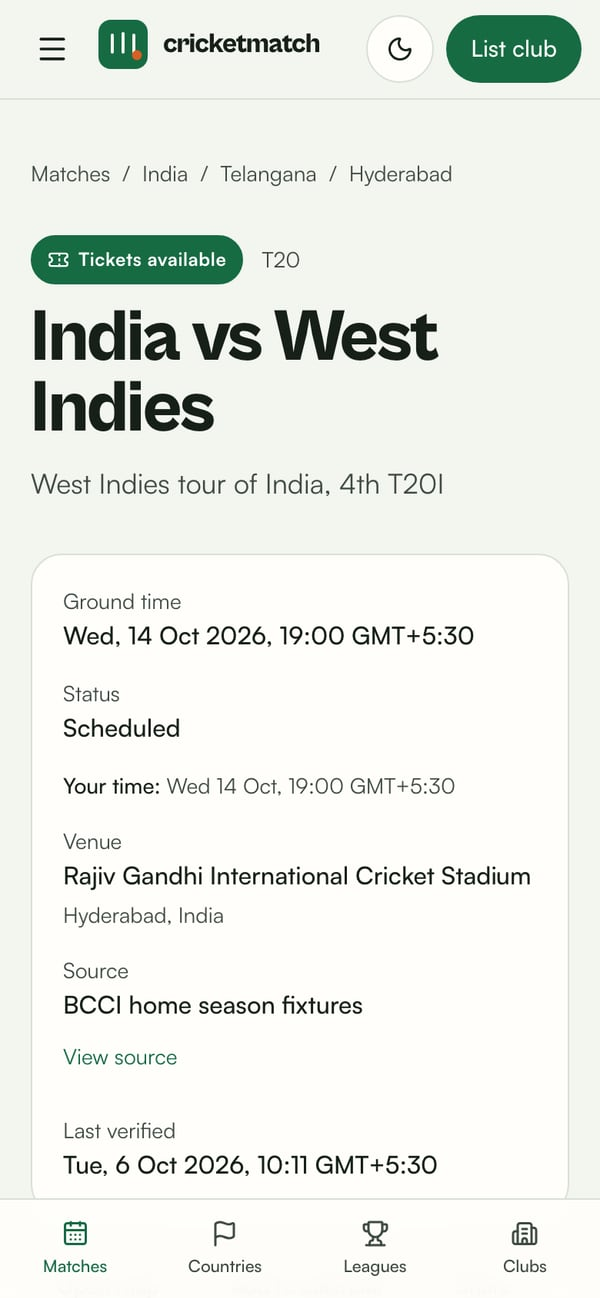
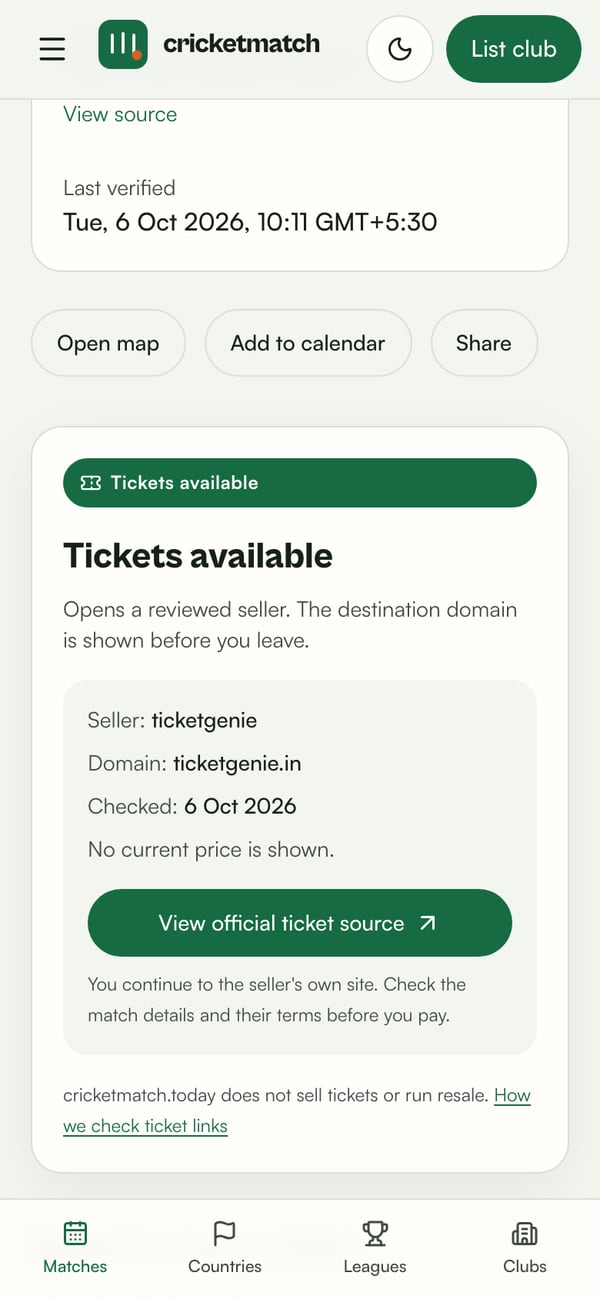
Retake the README screenshots for the official ticket sources
The home page now leads with official ticket sources, and the match page
shows the seller, its domain and the date of the last check. The phone
shot of a match page scrolls to its ticket panel. The README also says
authorised sellers instead of partners, links How we check ticket links,
and counts 26 end-to-end tests.

diff --git a/README.md b/README.md
@@ -31,7 +31,7 @@
 
 - **A live product.** [cricketmatch.today](https://cricketmatch.today) has served real fixtures since October 2026: over 200 matches in India, Australia, South Africa, New Zealand, Pakistan, Bangladesh and the UAE, and the BBL, WBBL and SA20. Most have an official ticket link that a person has checked.
 - **Full-stack TypeScript.** Next.js 16 App Router with React Server Components and server actions, MySQL 8 and Tailwind CSS 4.
-- **Well tested.** Over 150 Vitest unit and integration tests, some against a real MySQL 8 server and some against Postgres row-level security, plus 24 Playwright end-to-end tests. CI runs them all on every push.
+- **Well tested.** Over 150 Vitest unit and integration tests, some against a real MySQL 8 server and some against Postgres row-level security, plus 26 Playwright end-to-end tests. CI runs them all on every push.
 - **Self-hosted.** It runs on a Linux VPS with systemd, Caddy for HTTPS, an hourly data sync, nightly backups and a one-command deploy.
 - **Founder-led.** Gagan leads product and engineering. Co-founder Vansh brings a young cricketer's view of what players and fans need.
 
@@ -41,7 +41,7 @@
 
 - Browse by country, Indian state and town, league and season, team or ground, or search. The today, tomorrow and this weekend shortcuts use the date at each ground, and a Test counts on all five days.
 - Each match shows its start time at the ground and in the visitor's own time zone, and can be added to a calendar.
-- Ticket links go only to official sellers or authorised partners. They pass through a page that shows the seller's domain first. When a sale has not opened yet, fans can ask to be emailed when it does.
+- Ticket links go only to official sources or to sellers the organiser has authorised, never to resale. Each shows the seller, its domain and when a person last checked it, and passes through a page that names the seller before the fan leaves. [How we check ticket links](https://cricketmatch.today/how-we-check-ticket-links) sets out the rules. When a sale has not opened yet, fans can ask to be emailed when it does.
 
 **For clubs and academies**
 
@@ -55,7 +55,7 @@
 <p align="center">
   <img src="docs/screenshots/home-phone.jpg" width="250" alt="The home page on a phone">
   <img src="docs/screenshots/matches-phone.jpg" width="250" alt="Upcoming matches with filters on a phone">
-  <img src="docs/screenshots/match-phone.jpg" width="250" alt="A match page on a phone">
+  <img src="docs/screenshots/match-phone.jpg" width="250" alt="A match page on a phone, with its official ticket source and when it was checked">
 </p>
 
 ## Engineering highlights
